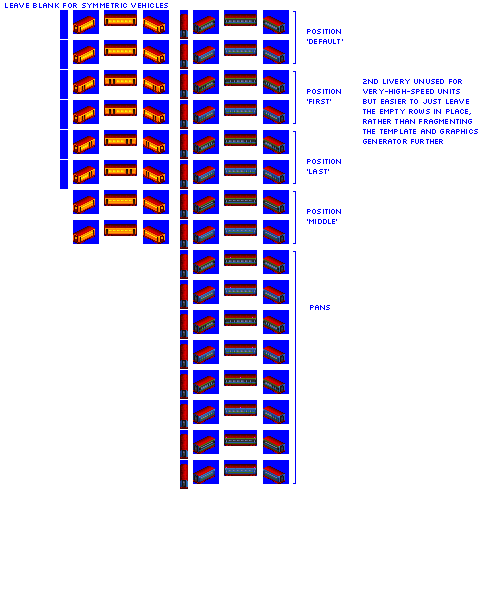
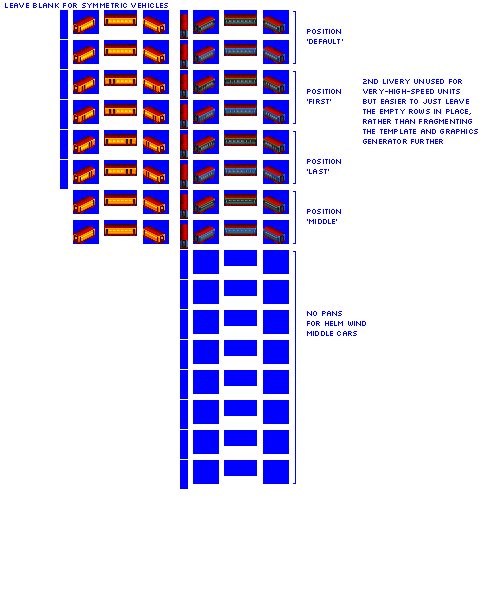
Change: knock off pans from Helm Wind middle cars

Changed region(s): [[0.36, 0.42, 0.57, 0.81], [0.6, 0.51, 0.72, 0.57]]

diff --git a/src/vehicles/helm_wind_middle.py b/src/vehicles/helm_wind_middle.py
@@ -8,7 +8,7 @@ def main(roster):
                                                         name='Helm Wind - Middle',
                                                         role='pax_high_speed',
                                                         power=0,  # set power 0, when attached to correct cab, cab power will be increased
-                                                        pantograph_type='z-shaped-single',
+                                                        # no pantographs for Helm Wind middle cars
                                                         gen=5,
                                                         intro_date_offset=-3)  # introduce earlier than gen epoch by design
 

diff --git a/src/vehicles/helm_wind_cab.py b/src/vehicles/helm_wind_cab.py
@@ -9,6 +9,7 @@ def main(roster):
                                                      role='pax_high_speed',
                                                      power=1600,
                                                      dual_headed=True,
+                                                     pantograph_type='z-shaped-single',
                                                      gen=5,
                                                      intro_date_offset=-3)  # introduce earlier than gen epoch by design
 
